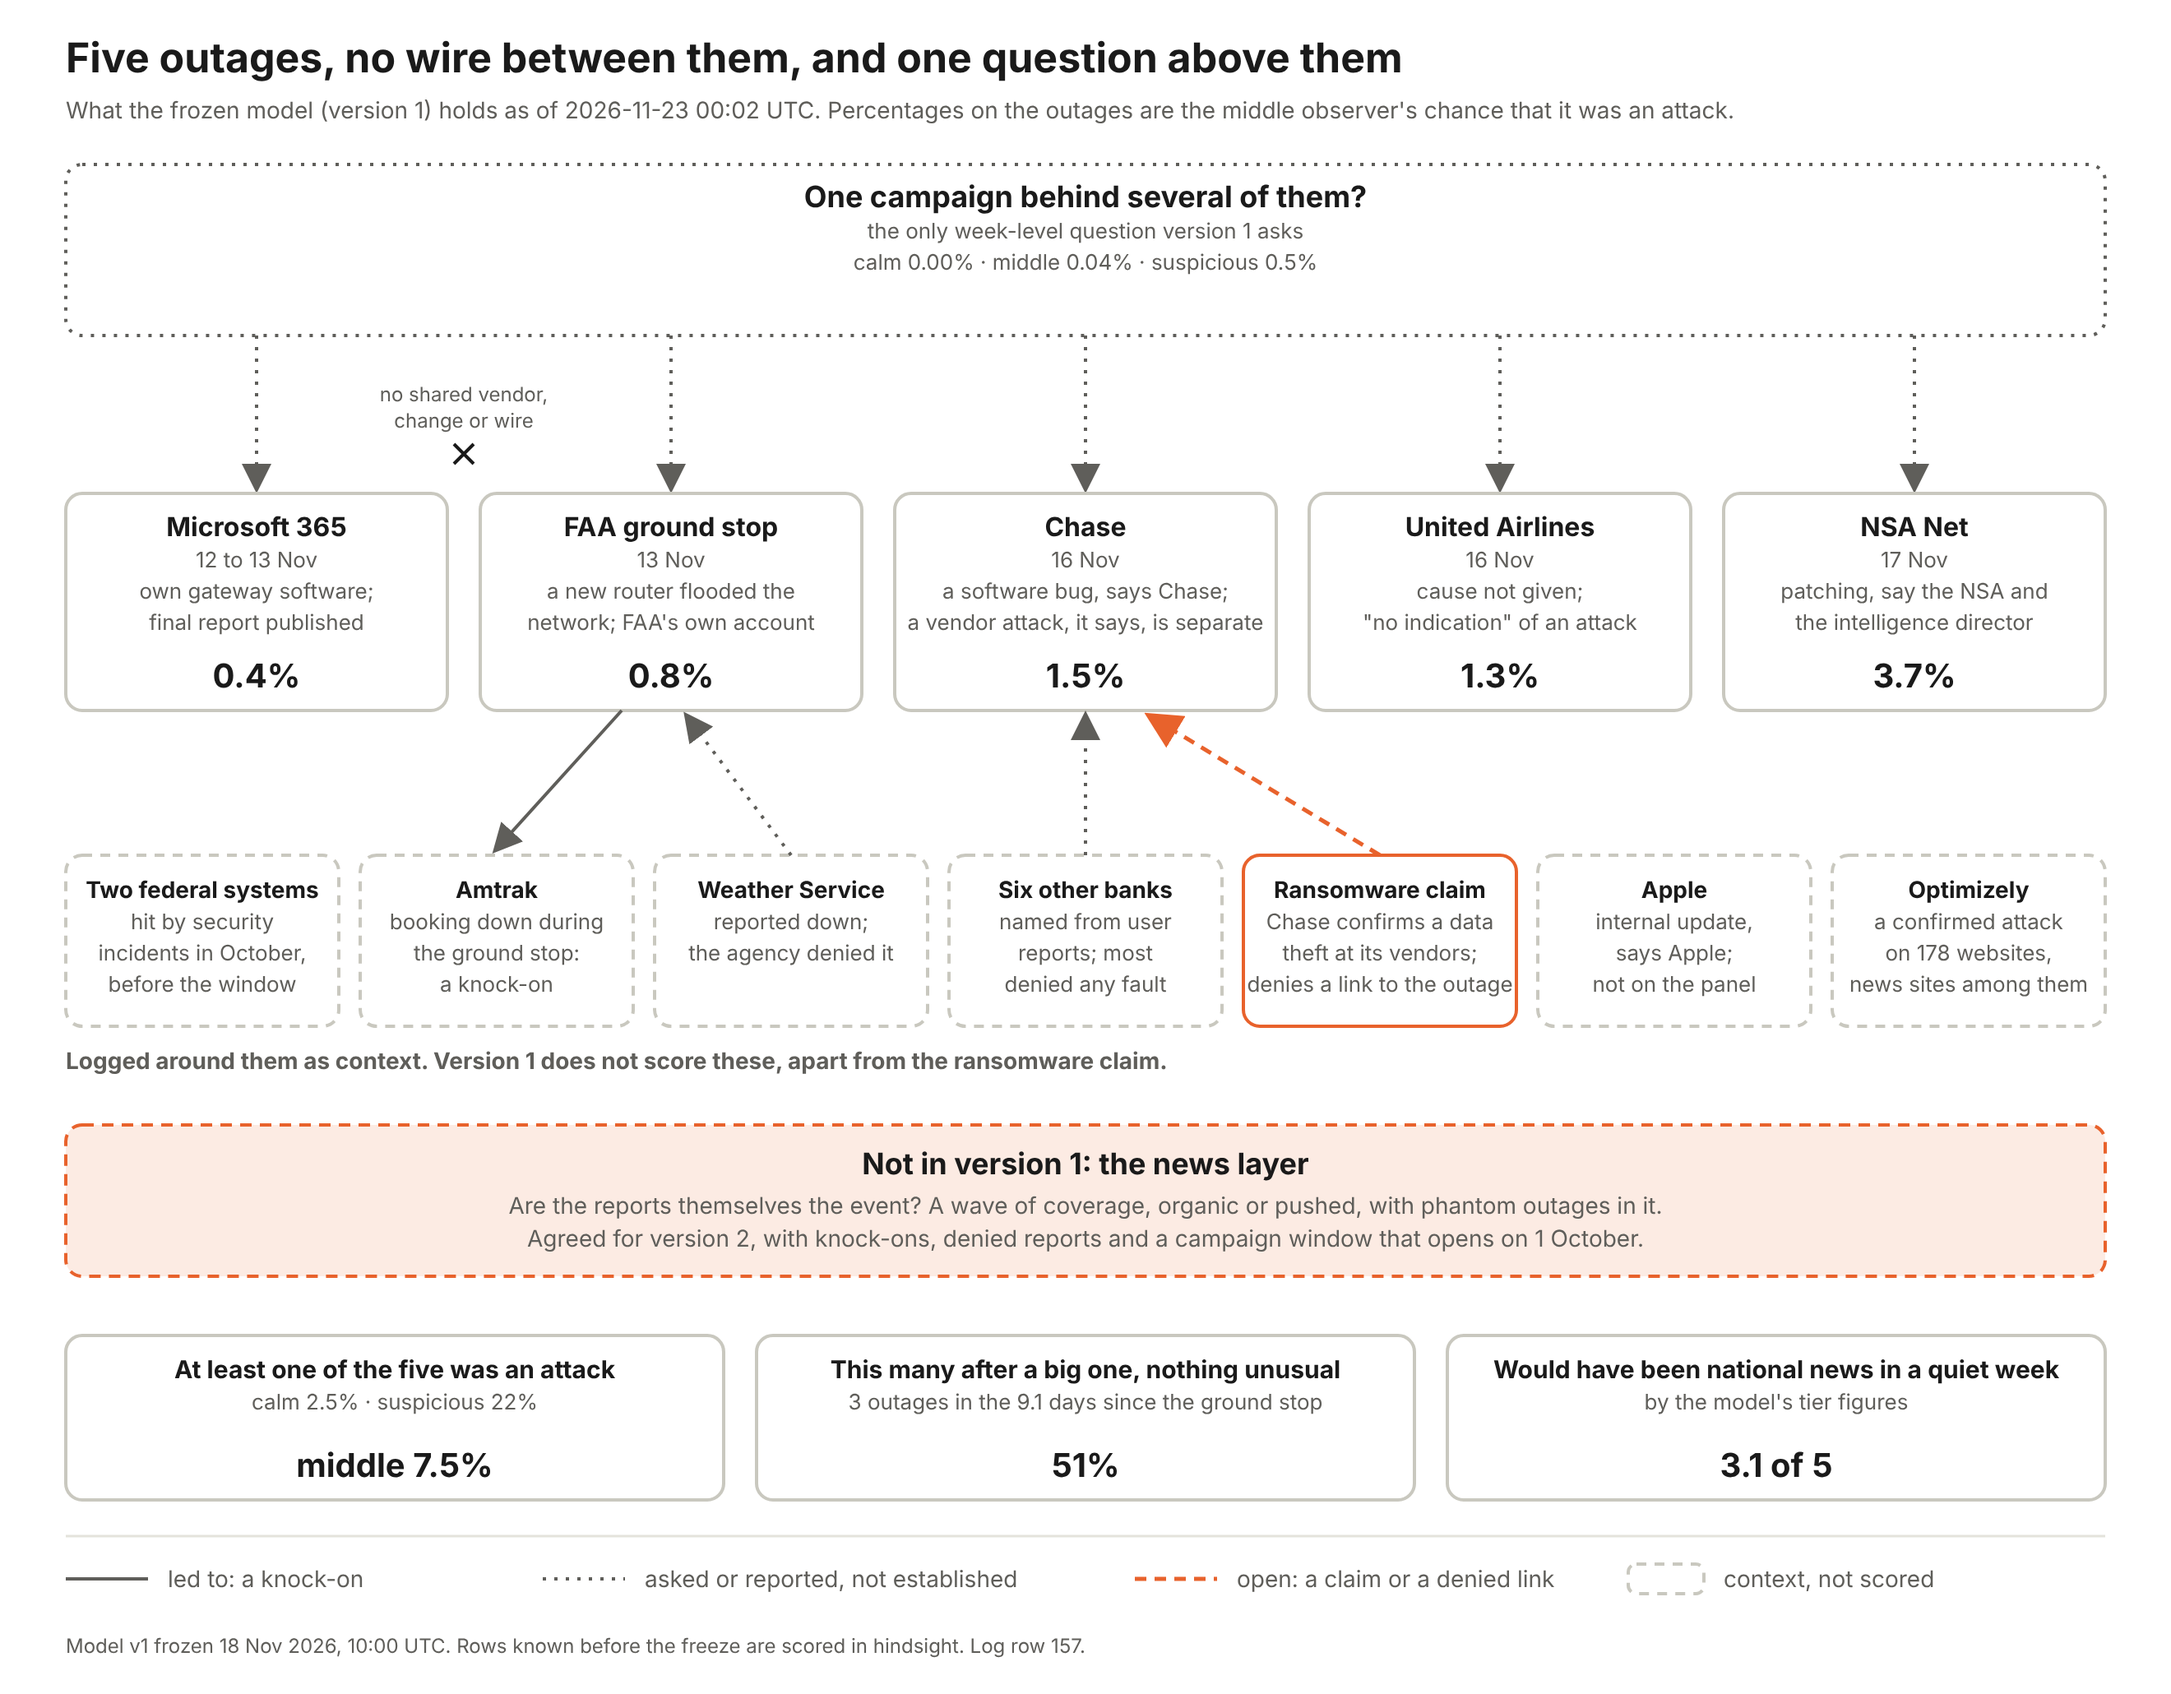
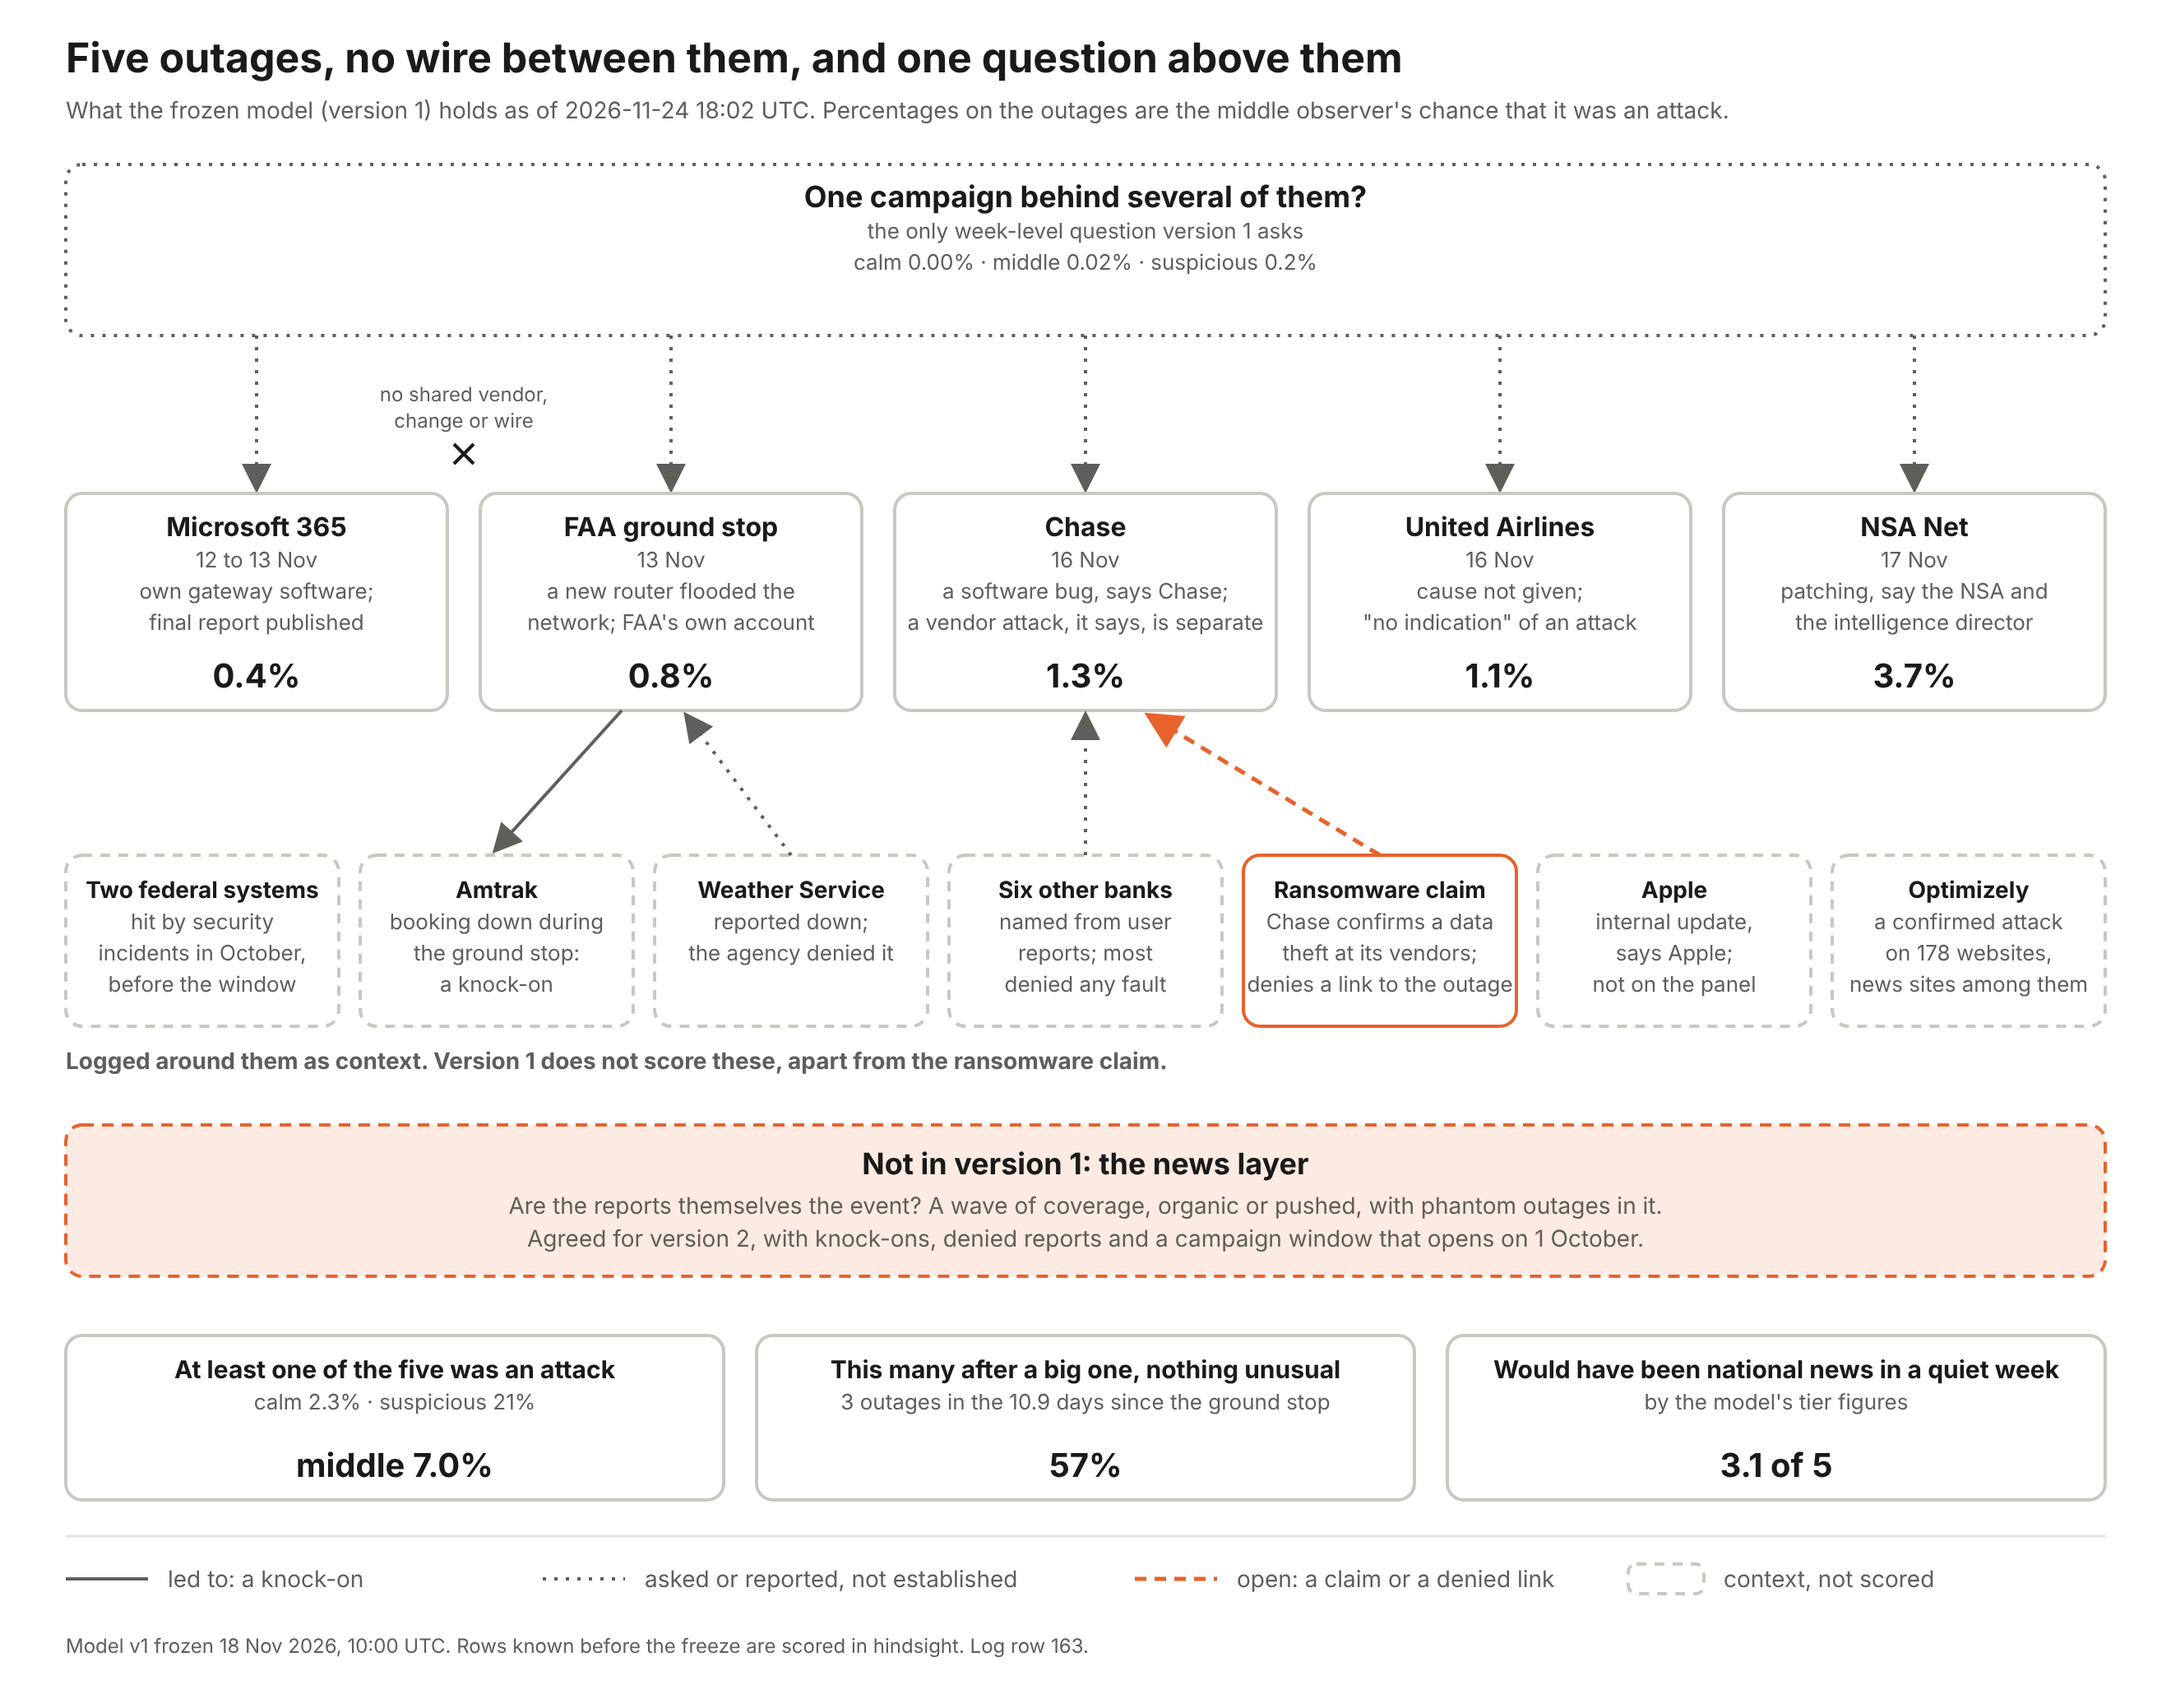
Log run, 24 Nov 18:03 UTC: catch-up after a 42-hour gap in runs
Claude-Session: https://claude.ai/code/session_01U66CedgGautdadz1gh9HFi

diff --git a/HANDOFF.md b/HANDOFF.md
@@ -85,6 +85,7 @@ Status as of Saturday, 14 November 2026.
 - 22 Nov 20:02 UTC. No new outage on the panel as run. USDA: NBC carried it, so the national-coverage leg is met; only the fixed list keeps it out. Start put at 16 or 19 November; restoration expected over the weekend, not confirmed. P(campaign): 0.00%, 0.04%, 0.5%. P(at least one attack): 2.5%, 7.5%, 22%.
 - 22 Nov 22:03 UTC. No new outage on the panel as run. USDA: a named under secretary calls it a 'cyberthreat', not a software update; NBC says staff were told a cyberattack hit the farmer-payments system. Unclaimed; link to the FBI intrusion unknown. Clayton warns of 'bumps in the road' and more outages. Microsoft's president on television: not a cyberattack. P(campaign): 0.00%, 0.04%, 0.5%. P(at least one attack): 2.5%, 7.5%, 22%.
 - 23 Nov 00:02 UTC. No new outage on the panel as run. Lead: an FBI official is reported tracing the Chase outage to a software release that Monday; if confirmed it is the first outside corroboration of any cause (not scored yet). P(campaign): 0.00%, 0.04%, 0.5%. P(at least one attack): 2.5%, 7.5%, 22%.
+- 24 Nov 18:03 UTC. **Catch-up after a 42-hour gap**: the session kept restarting and 21 runs (23 Nov 02:01 to 24 Nov 18:01 UTC) were not made. Found for that stretch: no new panel outage; no FAA root cause; Trump says he was briefed on the FBI database intrusion, 'not good', the first on-record acknowledgement; headlines of a third intrusion, at an Illinois dam (no detail); Colorado's digital ID app shut down since 18 November after unauthorised access (off panel). P(campaign): 0.00%, 0.02%, 0.2%. P(at least one attack): 2.3%, 7.0%, 21%. These exclude every intrusion and both security-caused shutdowns.
 
 ## Task waiting for a Claude Code session (written 17 November 2026, 16:50 Pacific)
 
